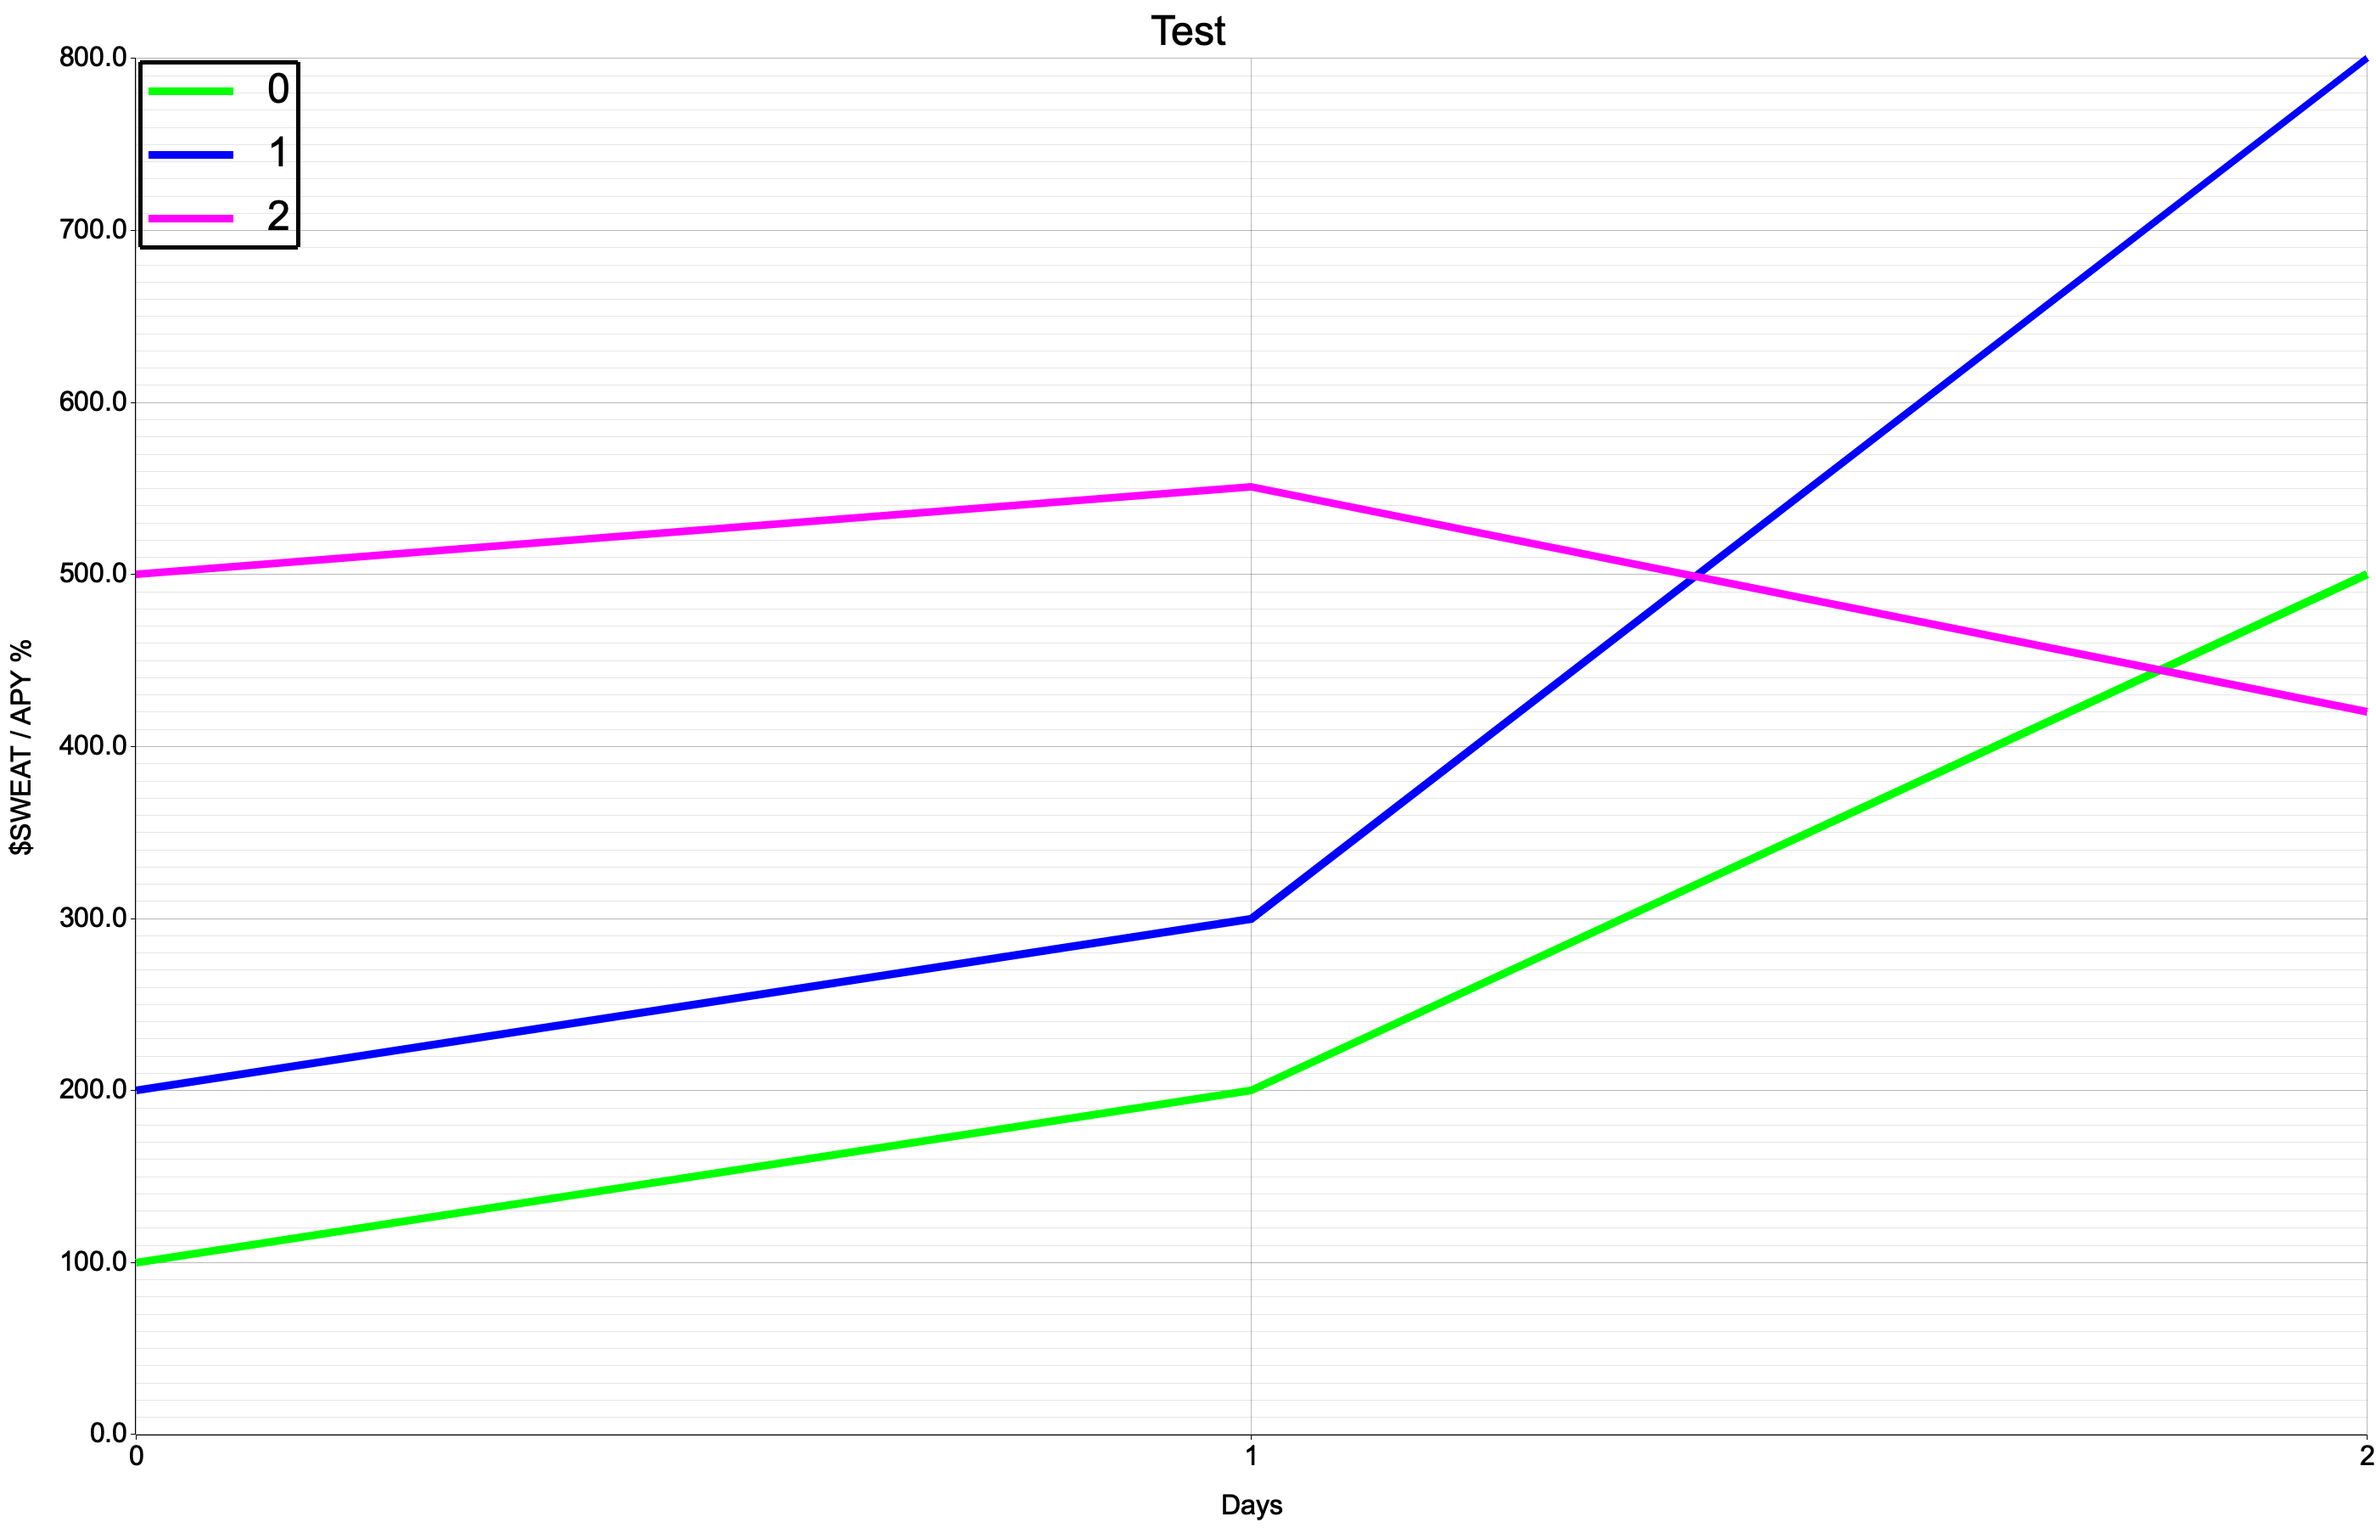
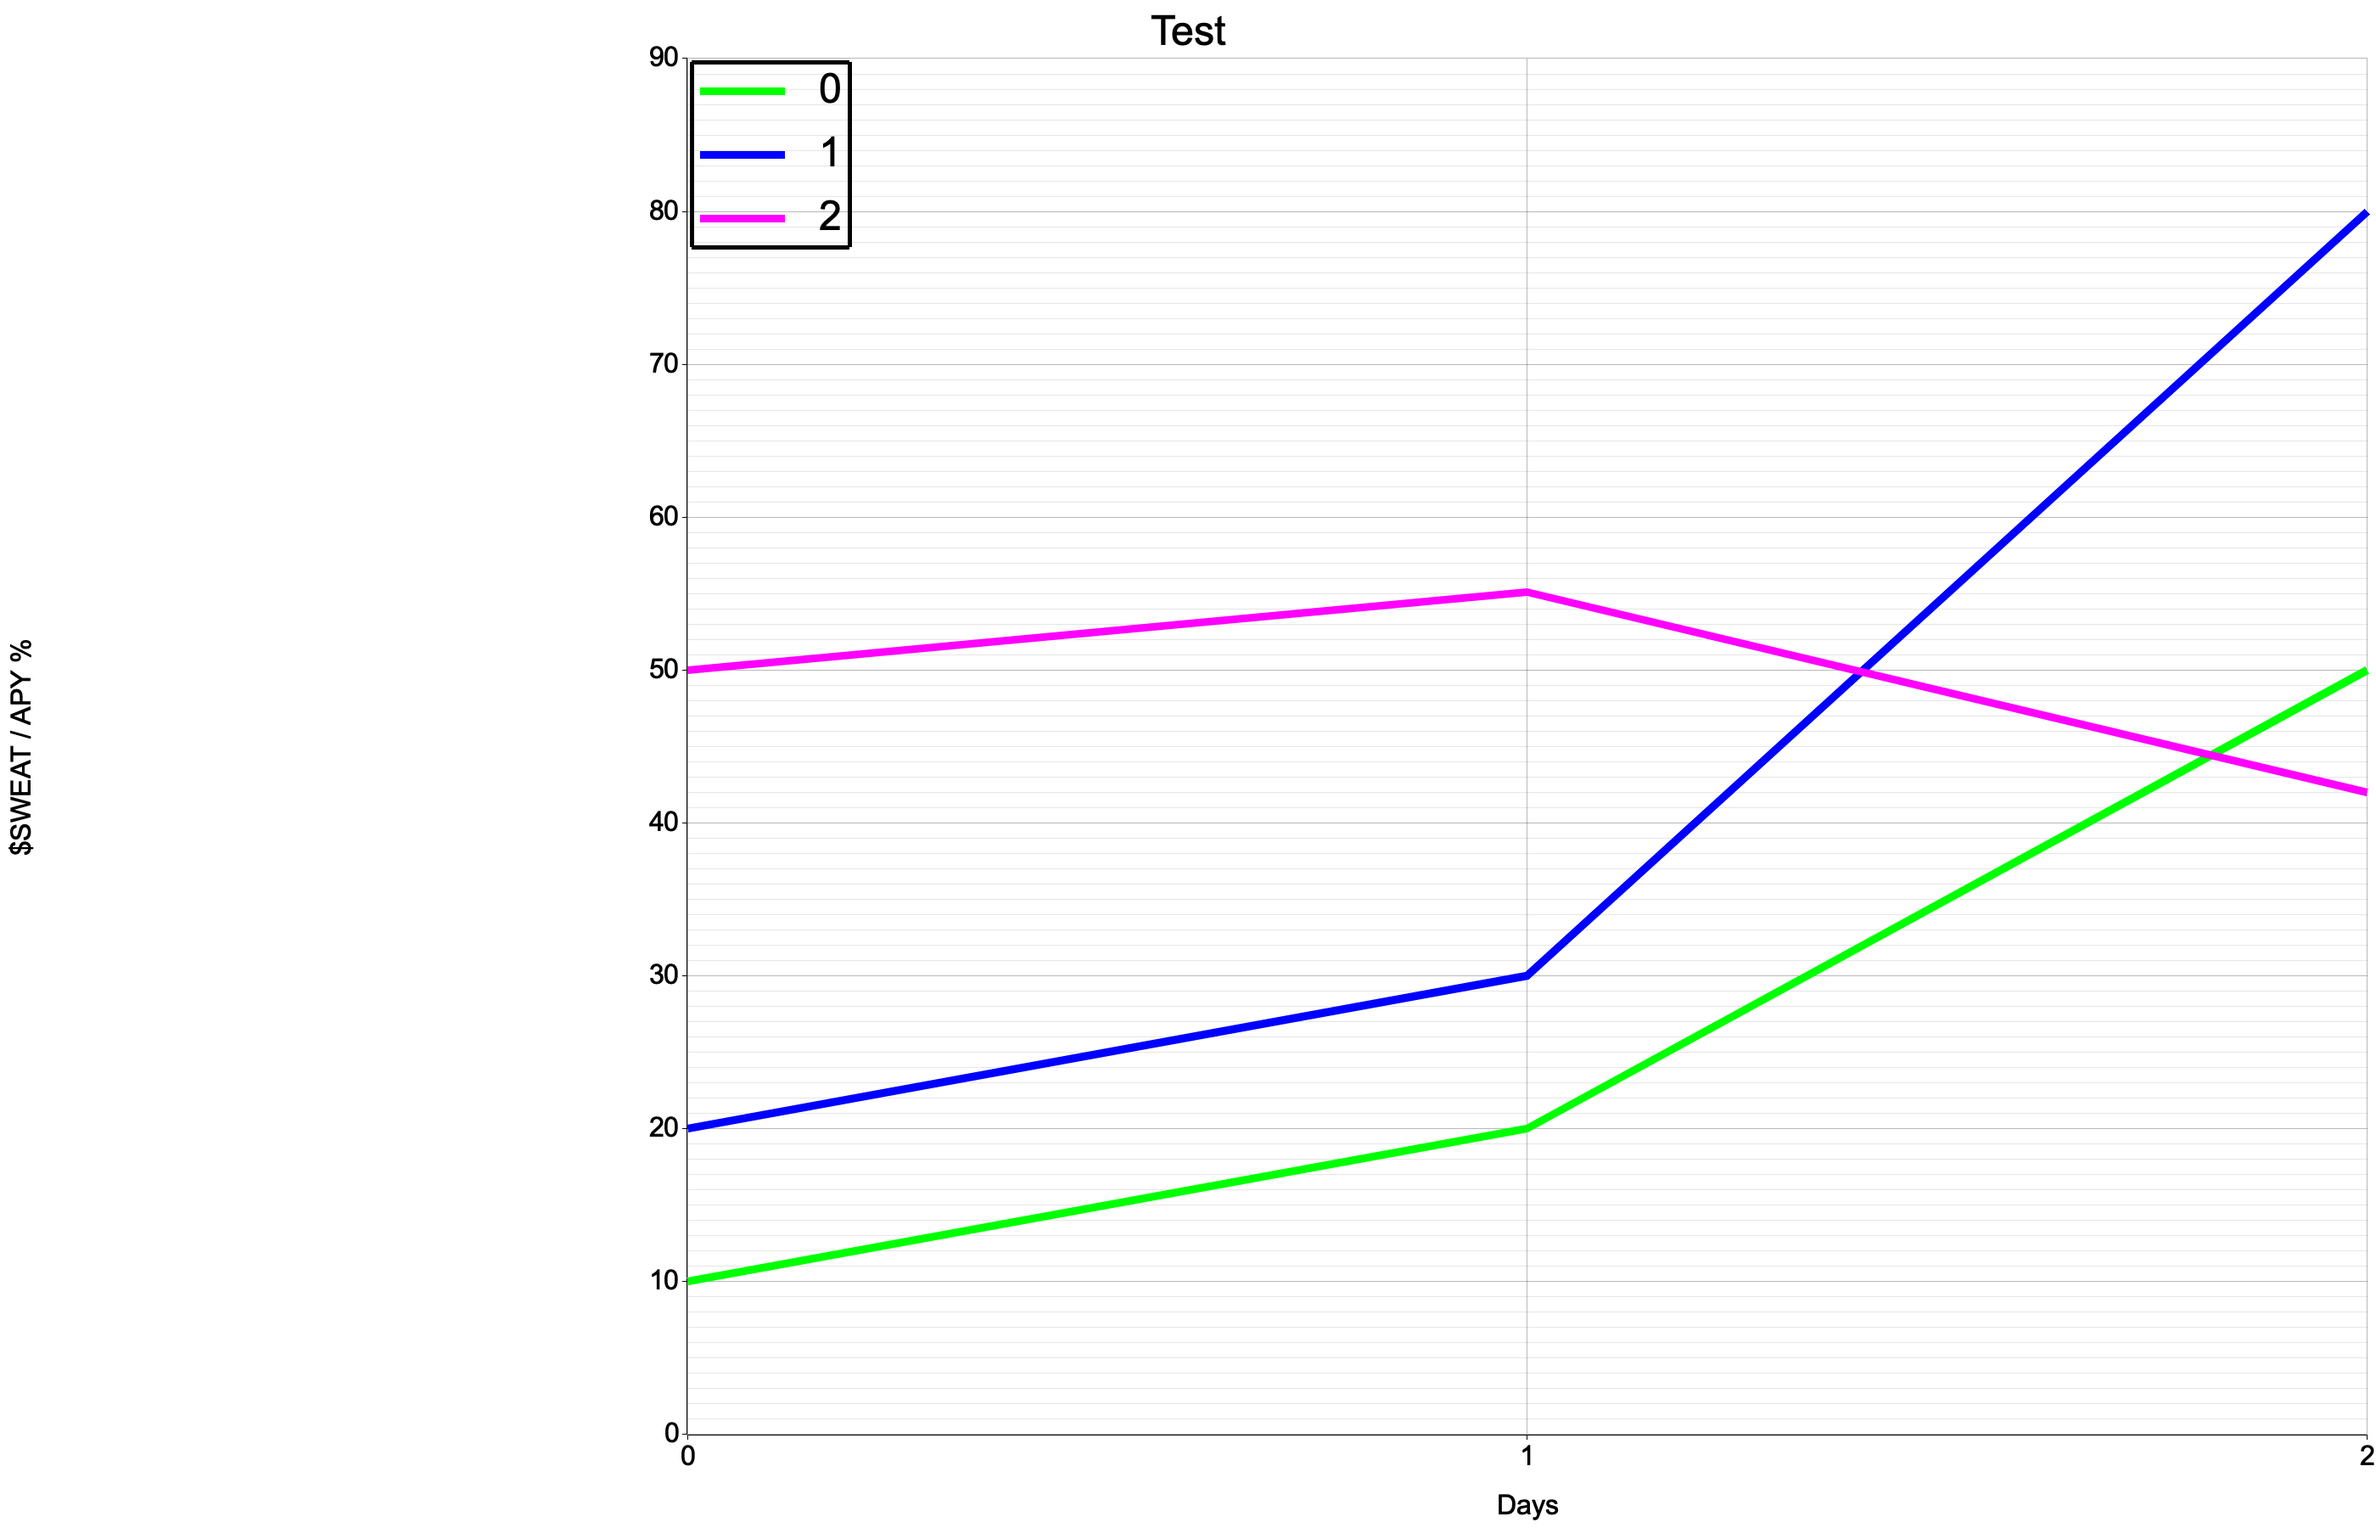
better normalization

diff --git a/visu/src/normalized_data.rs b/visu/src/normalized_data.rs
@@ -4,9 +4,10 @@ use count_digits::CountDigits;
 
 #[derive(Debug)]
 pub struct NormalizedData<const SIZE: usize> {
-    pub x_range: Range<u128>,
-    pub y_range: Range<u128>,
-    pub data:    [Vec<u128>; SIZE],
+    pub x_range:   Range<u128>,
+    pub y_range:   Range<u128>,
+    pub data:      [Vec<u128>; SIZE],
+    pub y_divider: u128,
 }
 
 pub fn normalize_data<const SIZE: usize>(data: [&[u128]; SIZE]) -> NormalizedData<SIZE> {
@@ -35,10 +36,21 @@ pub fn normalize_data<const SIZE: usize>(data: [&[u128]; SIZE]) -> NormalizedDat
 
     let total_max = *all_max.iter().max().unwrap();
 
+    let max_digits = total_max.count_digits() - 1;
+
+    let range_max_pow = 10_u128.pow(max_digits.try_into().unwrap());
+
+    let first_digit = total_max / range_max_pow;
+
+    let max_digit = first_digit + 1;
+
+    let range_max = max_digit * range_max_pow;
+
     NormalizedData {
         x_range: 0..size as u128 - 1,
-        y_range: 0..total_max,
+        y_range: 0..range_max,
         data,
+        y_divider: range_max_pow / 10,
     }
 }
 
@@ -50,11 +62,11 @@ mod test {
     fn test_normalize() {
         let norm = normalize_data([&[3, 8], &[10, 30]]);
         assert_eq!(norm.x_range, 0..1);
-        assert_eq!(norm.y_range, 0..80);
+        assert_eq!(norm.y_range, 0..90);
         assert_eq!(norm.data, [[30, 80], [10, 30]]);
 
         let norm = normalize_data([&[9_000], &[15_000_000_000_000_000]]);
         assert_eq!(norm.x_range, 0..0);
-        assert_eq!(norm.y_range, 0..90_000_000_000_000_000);
+        assert_eq!(norm.y_range, 0..100_000_000_000_000_000);
     }
 }

diff --git a/visu/src/render.rs b/visu/src/render.rs
@@ -23,8 +23,10 @@ pub fn render_chart<const SIZE: usize>(
 
     let data = normalize_data(data);
 
+    dbg!(&data);
+
     let mut chart = ChartBuilder::on(&root)
-        .set_label_area_size(LabelAreaPosition::Left, 150)
+        .set_label_area_size(LabelAreaPosition::Left, 800)
         .set_label_area_size(LabelAreaPosition::Bottom, 100)
         .margin(10)
         .caption(name, ("sans-serif", 60))
@@ -37,7 +39,7 @@ pub fn render_chart<const SIZE: usize>(
         .x_label_style(("sans-serif", 40))
         .x_desc("Days")
         .y_desc("$SWEAT / APY %")
-        .y_label_formatter(&|value| format!("{:.1}", *value as f64))
+        .y_label_formatter(&|value| format!("{:.1}", value / data.y_divider))
         .draw()?;
 
     // draw_graph(
